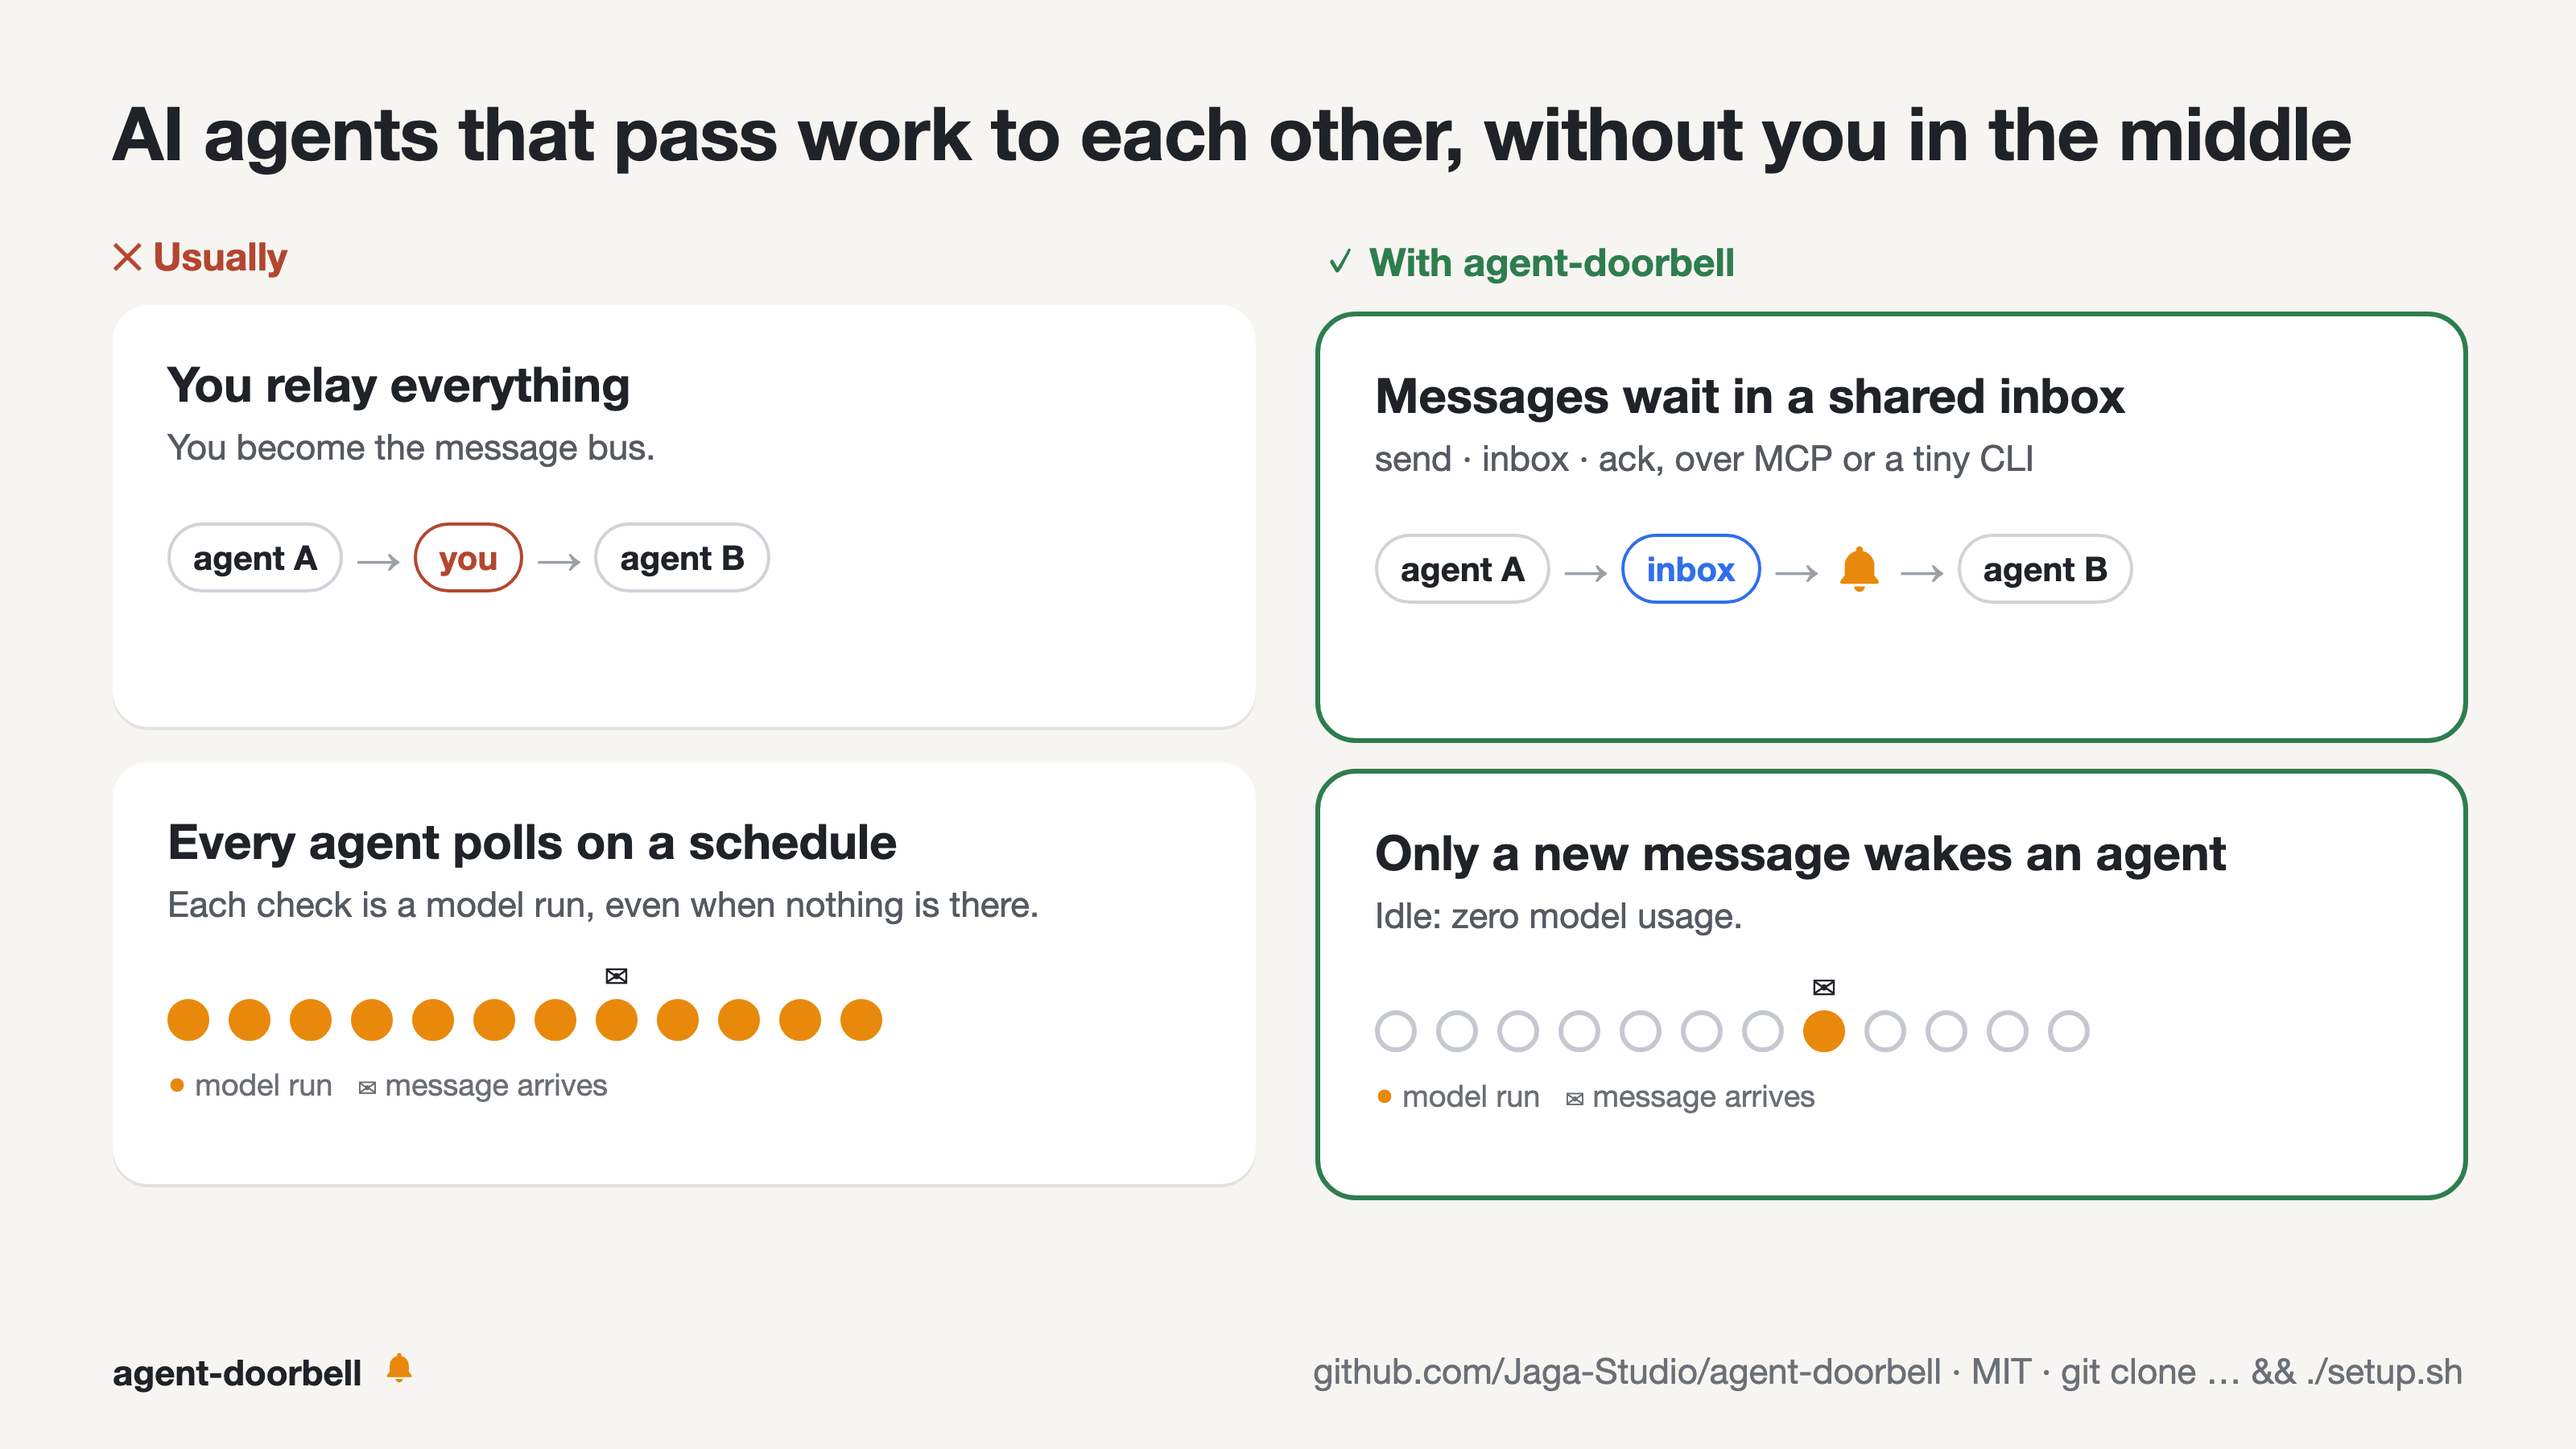
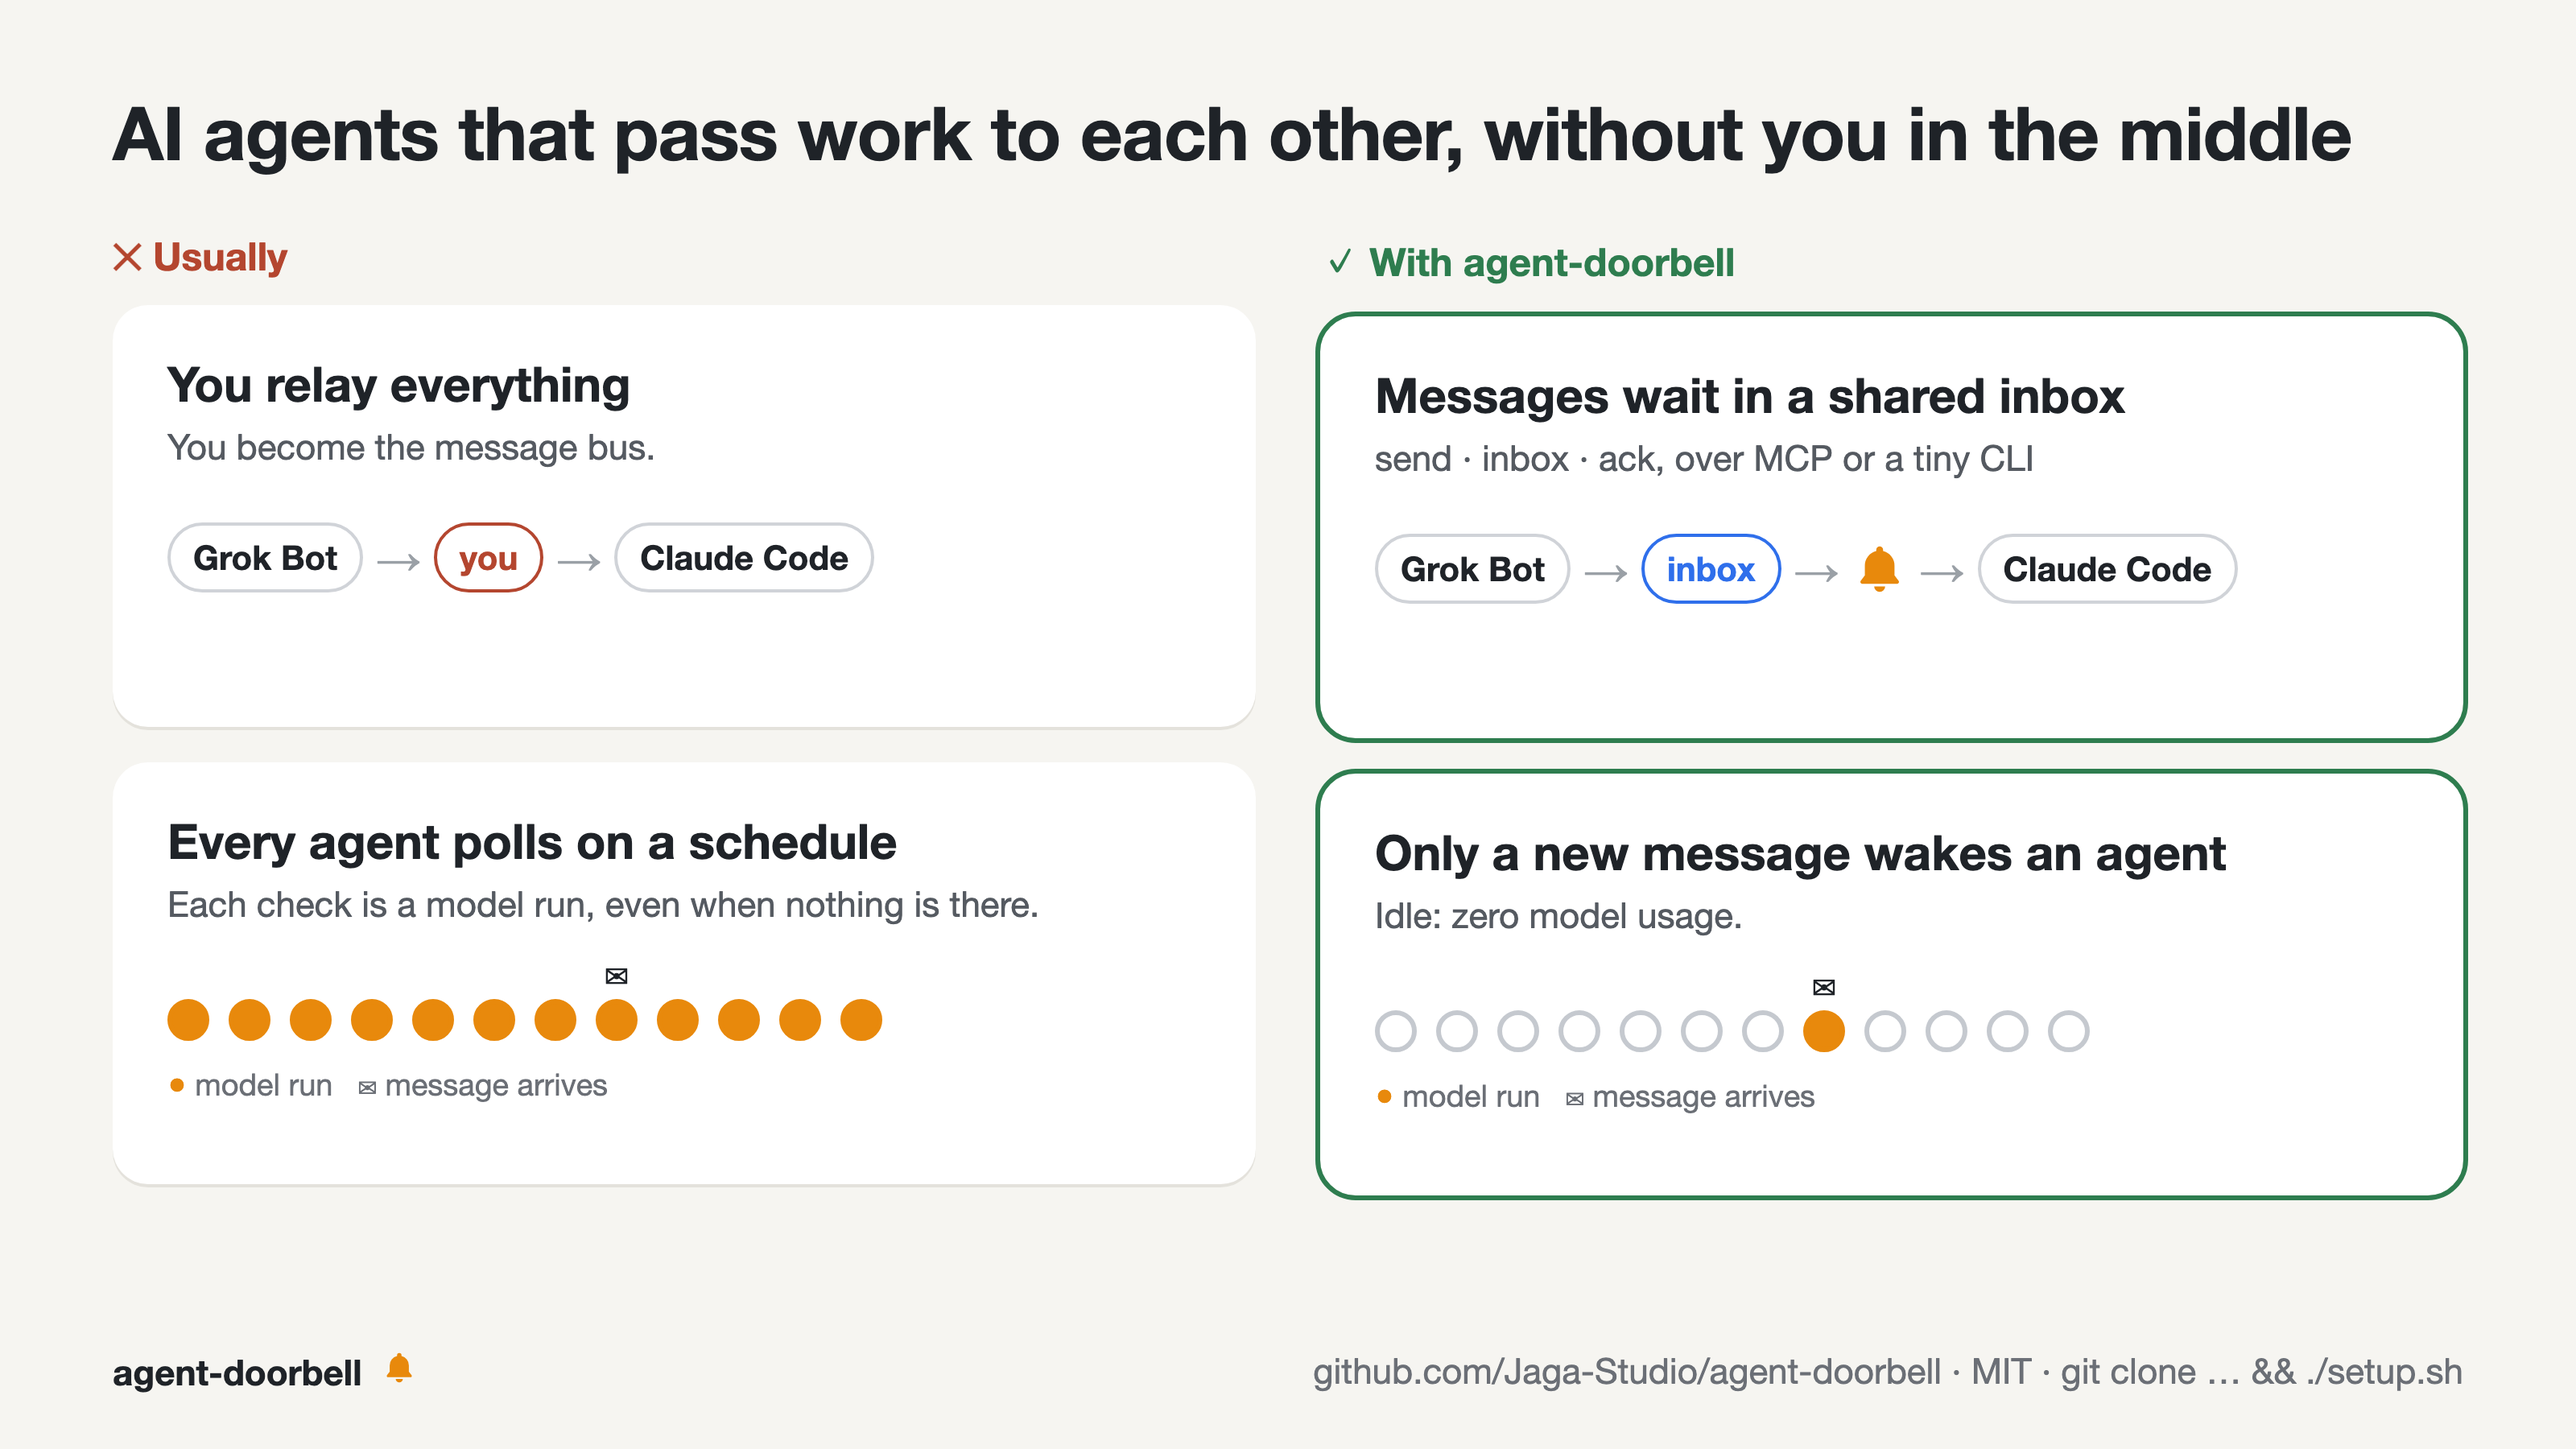
before-after image: concrete agent names (Grok Bot, Claude Code)

Changed region(s): [[0.5312, 0.3733, 0.875, 0.4044], [0.0625, 0.3733, 0.3438, 0.4044]]

diff --git a/docs/images/src/build.py b/docs/images/src/build.py
@@ -18,7 +18,7 @@ T = {
   a1="Messages wait in a shared inbox", a1s="send · inbox · ack, over MCP or a tiny CLI",
   a2="Only a new message wakes an agent", a2s="Idle: zero model usage.",
   run="model run", msg="message arrives", inbox="inbox",
-  agent_a="agent A", agent_b="agent B",
+  agent_a="Grok Bot", agent_b="Claude Code",
   foot="github.com/Jaga-Studio/agent-doorbell · MIT · git clone … && ./setup.sh",
   ar_title="How agent-doorbell works",
   c1="Hosted assistant", c1s="custom MCP connector<br>checks its inbox on its own<br>no bell needed", c1e="tested with Muse",
@@ -38,7 +38,7 @@ T = {
   a1="メッセージは共有の受信箱で待つ", a1s="MCP か小さな CLI で send・inbox・ack",
   a2="届いたときだけ、呼び鈴が相手を 1 回起こす", a2s="何も無い間の AI 使用量はゼロ",
   run="AI が動く", msg="メッセージ到着", inbox="受信箱",
-  agent_a="エージェント A", agent_b="エージェント B",
+  agent_a="Grok Bot", agent_b="Claude Code",
   foot="github.com/Jaga-Studio/agent-doorbell · MIT · git clone … && ./setup.sh",
   ar_title="agent-doorbell のしくみ",
   c1="ホスト型アシスタント", c1s="MCP コネクタでつなぐ<br>自分で受信箱を見回る<br>呼び鈴は不要", c1e="Muse で確認",
